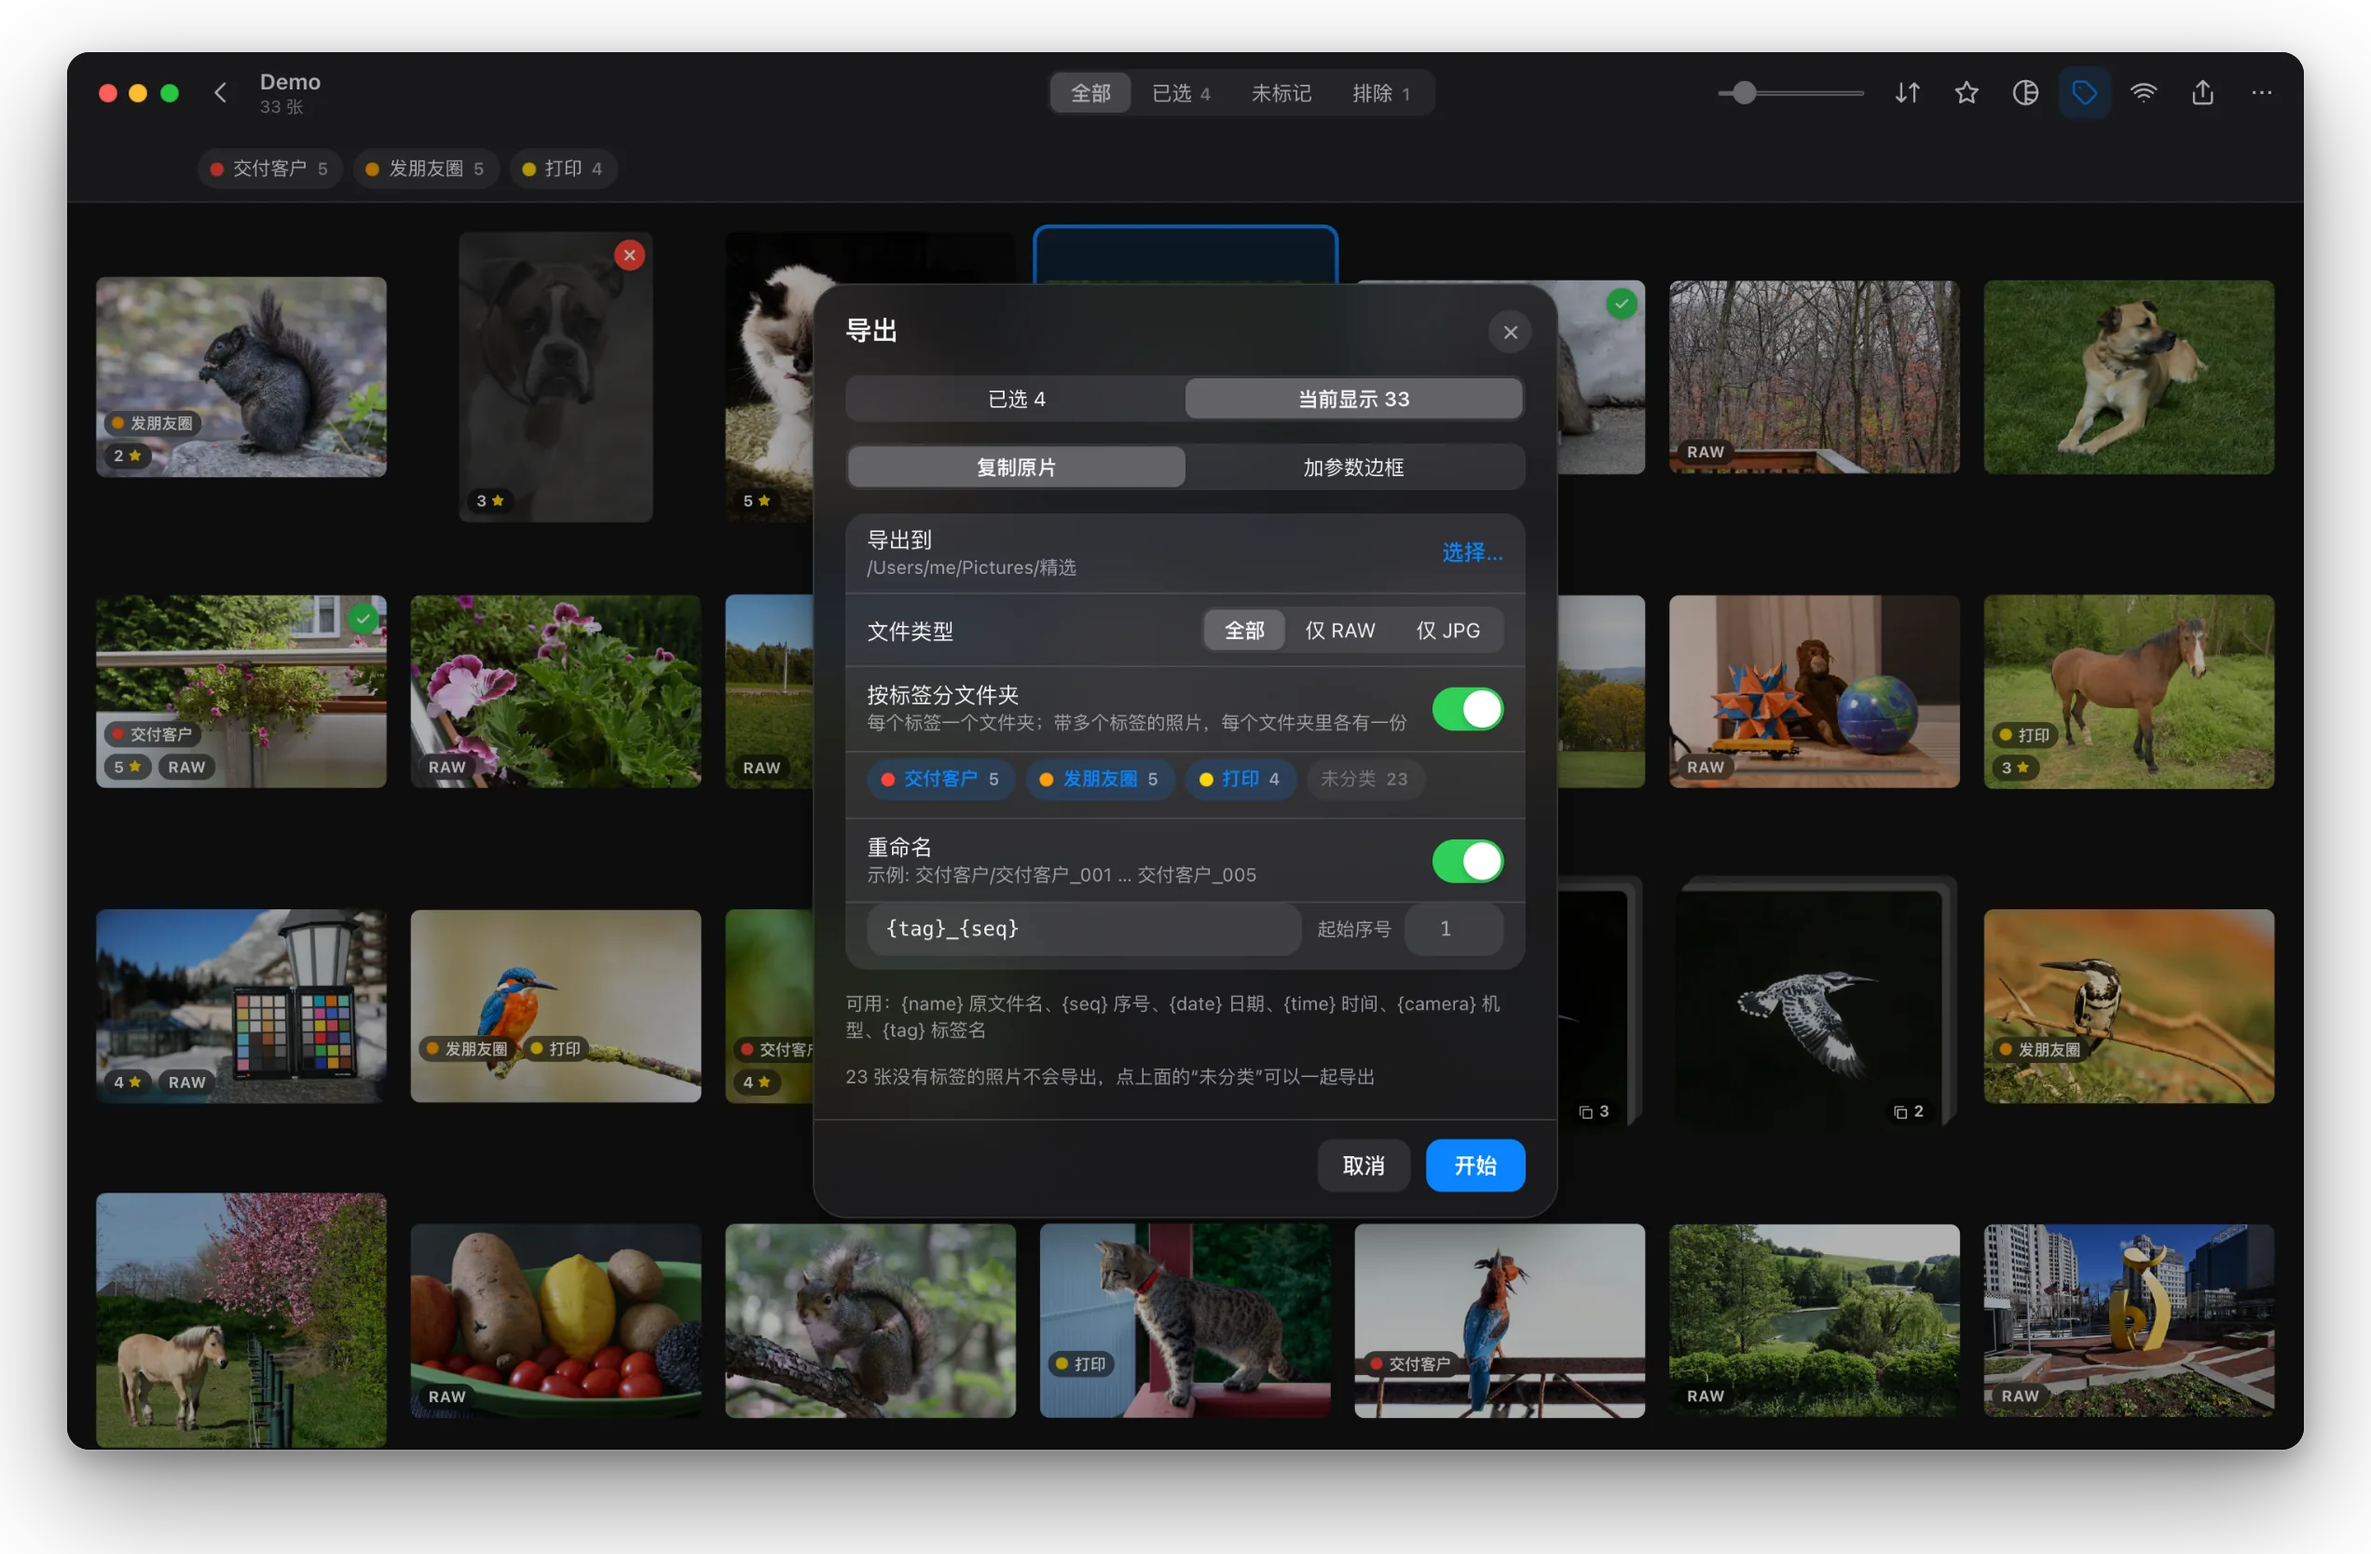
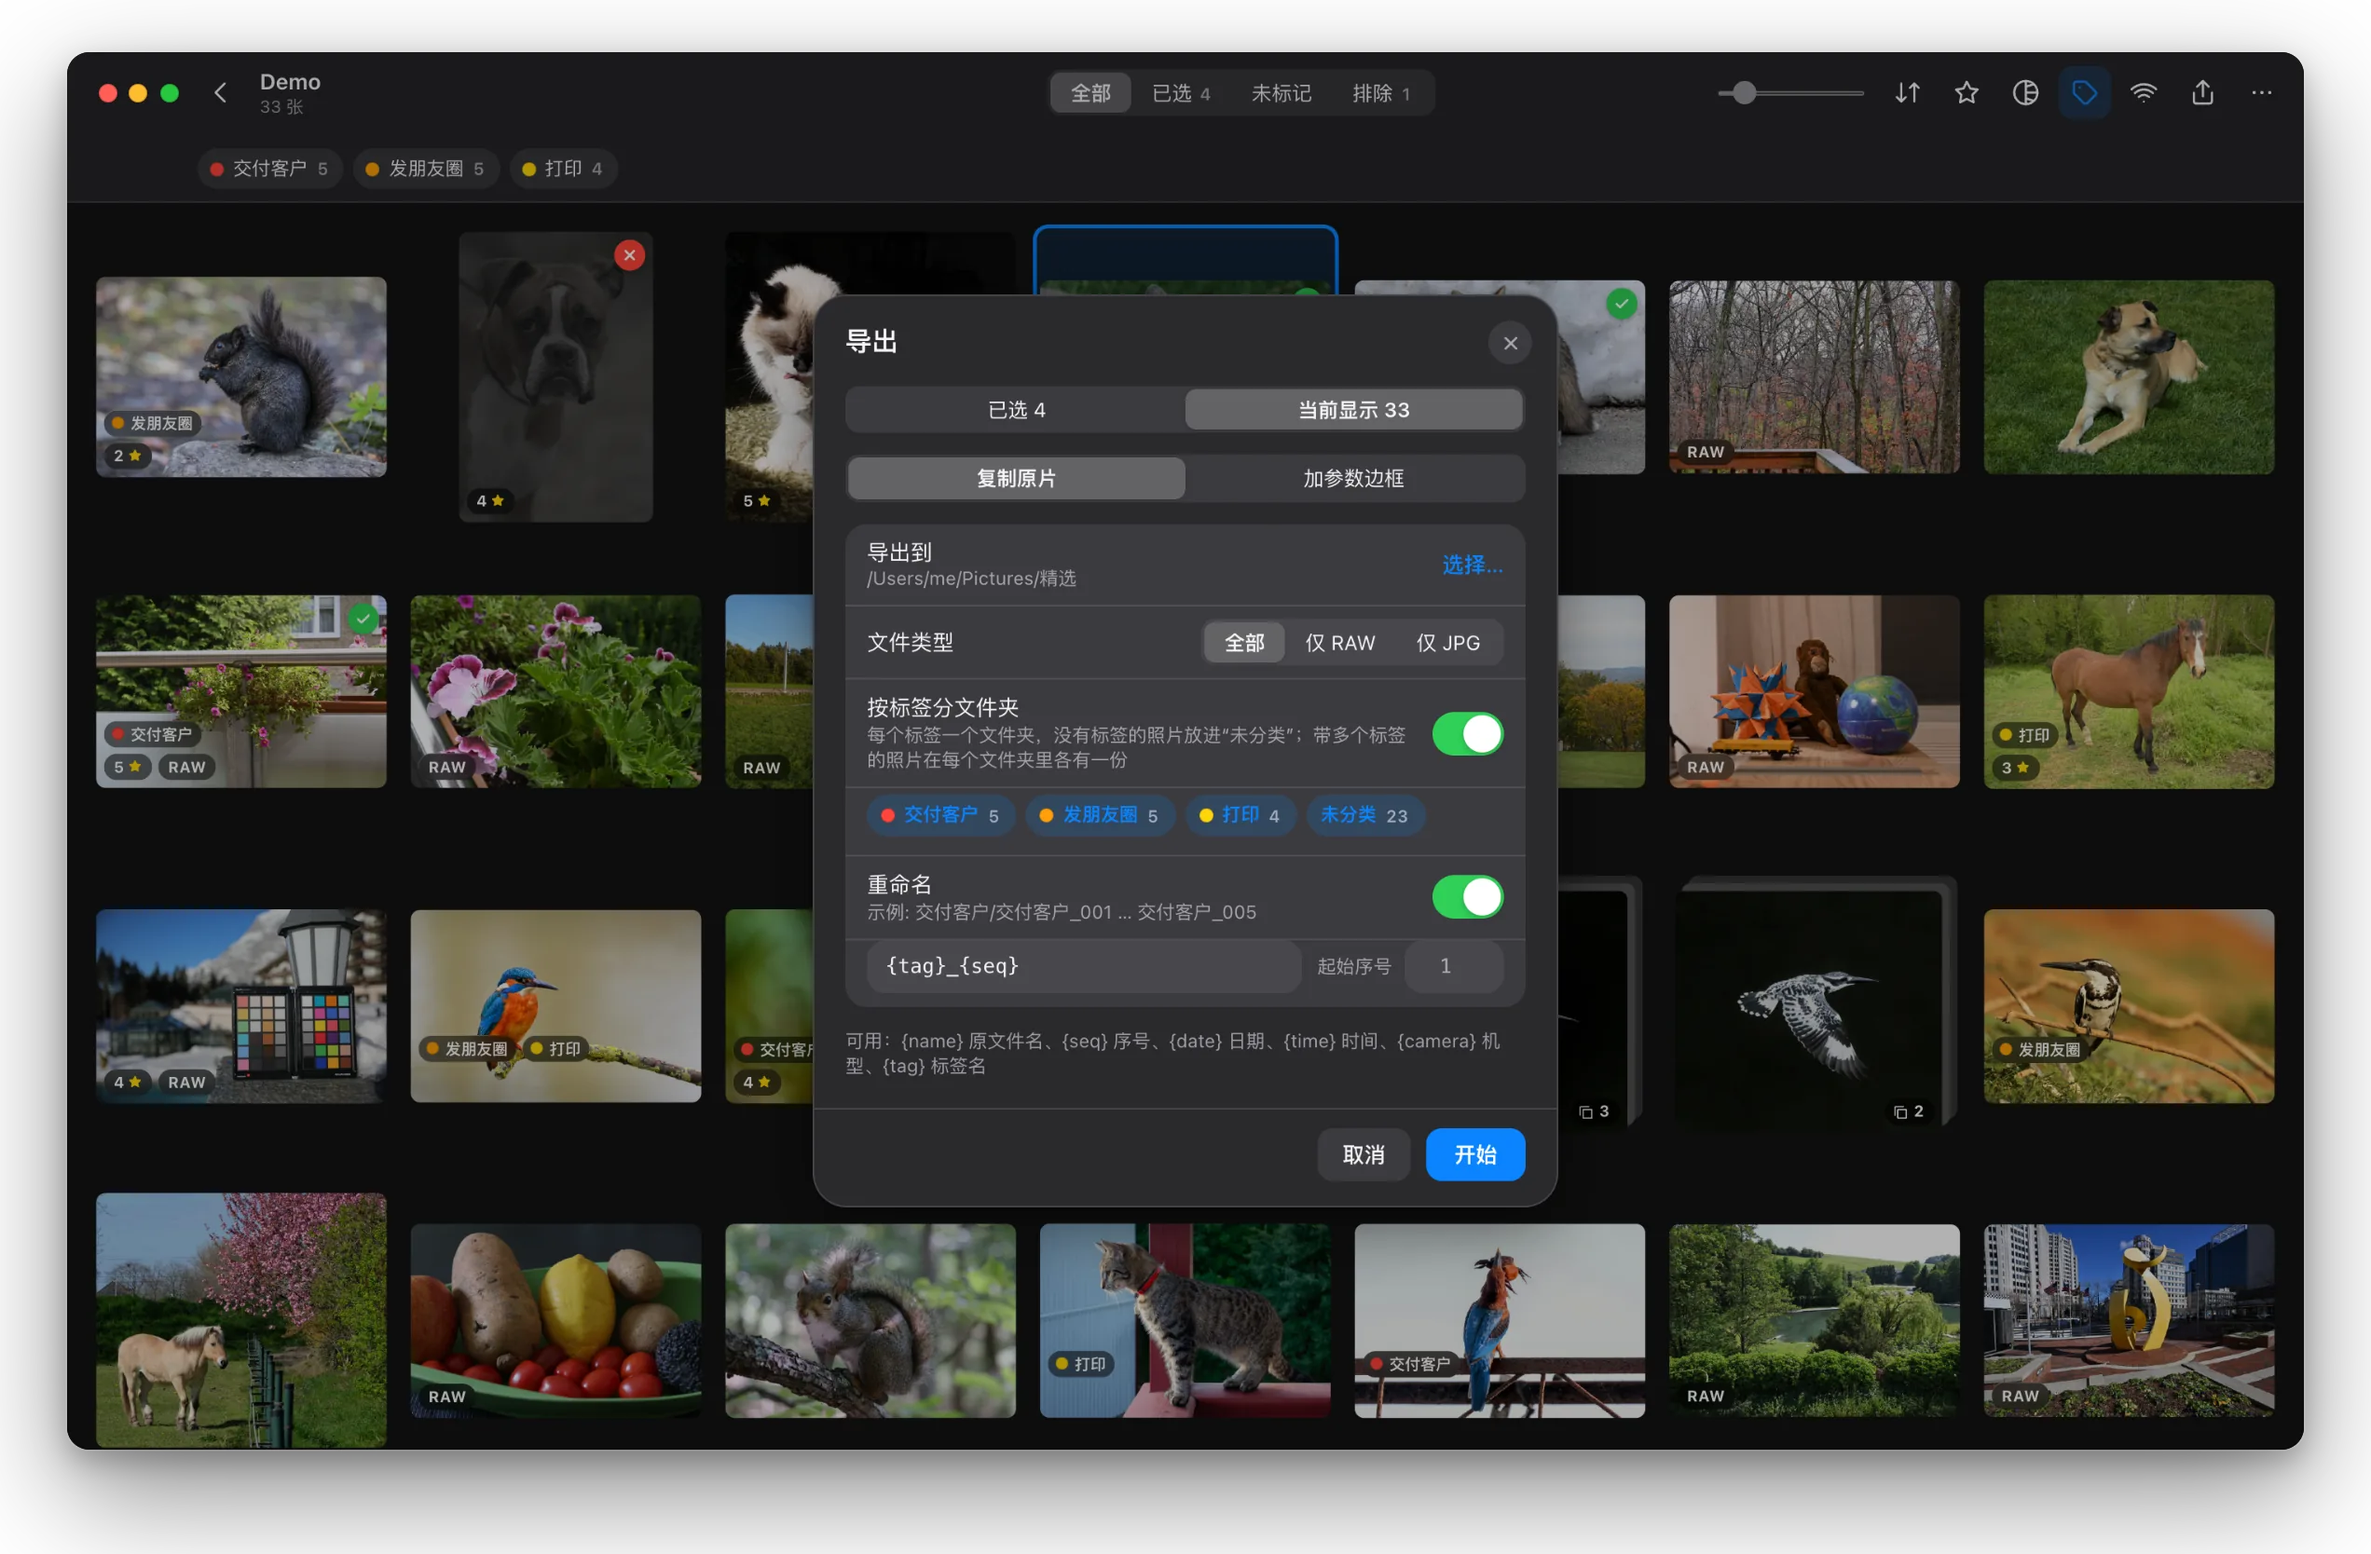
Give menus, sheets and other popups an opaque background
Menus, the tag menu, sheets, the compare picker, the floating info panel
on phones and the toast were frosted glass. Over a photo the picture
showed through the text, which got in the way more than it looked good.
They now have a solid surface (`.solid`, `--popup`). The bars that lie
on the photo (toolbar, dock, selection bar, burst strip) stay glass but
let less through.

The README pictures of the tag menu, the export sheet and the frame
sheet are retaken with the new surface and with "Untagged" on.

Checked in headless Chrome only; not looked at in WKWebView or WebView2.

Changed region(s): [[0.3416, 0.1559, 0.6521, 0.7794], [0.3416, 0.1559, 0.4037, 0.2182]]

diff --git a/src/styles.css b/src/styles.css
@@ -12,8 +12,9 @@
   --green: #34c759;
   --red: #ff3b30;
   --yellow: #ff9f0a;
-  --glass: rgba(255, 255, 255, 0.7);
+  --glass: rgba(255, 255, 255, 0.84);
   --glass-edge: rgba(255, 255, 255, 0.6);
+  --popup: #ffffff;
   --shadow: 0 10px 40px rgba(0, 0, 0, 0.14), 0 1px 3px rgba(0, 0, 0, 0.06);
   --bar: 52px;
   --safe-top: env(safe-area-inset-top, 0px);
@@ -38,8 +39,9 @@
     --green: #30d158;
     --red: #ff453a;
     --yellow: #ffd60a;
-    --glass: rgba(44, 44, 48, 0.64);
+    --glass: rgba(40, 40, 43, 0.82);
     --glass-edge: rgba(255, 255, 255, 0.1);
+    --popup: #2a2a2d;
     --shadow: 0 12px 44px rgba(0, 0, 0, 0.5), 0 1px 3px rgba(0, 0, 0, 0.3);
   }
 }
@@ -98,6 +100,13 @@ p {
   -webkit-backdrop-filter: blur(30px) saturate(180%);
   backdrop-filter: blur(30px) saturate(180%);
   border: 0.5px solid var(--glass-edge);
+}
+
+/* What is read or chosen from (menus, sheets, messages) is solid. Glass over a grid of photos makes
+ * text hard to read, and a blur inside a blurred bar is not drawn at all by Chromium (Windows). */
+.solid {
+  background: var(--popup);
+  border: 0.5px solid var(--hairline);
 }
 
 .link {
@@ -930,8 +939,9 @@ button.primary.large {
   --green: #30d158;
   --red: #ff453a;
   --yellow: #ffd60a;
-  --glass: rgba(38, 38, 42, 0.62);
+  --glass: rgba(34, 34, 37, 0.8);
   --glass-edge: rgba(255, 255, 255, 0.12);
+  --popup: #2a2a2d;
   --shadow: 0 12px 44px rgba(0, 0, 0, 0.5);
   color: var(--text);
 }
@@ -1689,7 +1699,6 @@ button.primary.large {
   display: flex;
   flex-direction: column;
   animation: rise 0.22s cubic-bezier(0.2, 0.9, 0.3, 1);
-  --glass: color-mix(in srgb, var(--surface) 82%, transparent);
 }
 
 .sheet.wide {

diff --git a/src/ui/controls.tsx b/src/ui/controls.tsx
@@ -113,7 +113,7 @@ export function Menu(props: { button: ReactNode; label: string; items: MenuItem[
         {props.button}
       </button>
       {open && (
-        <div className={`menu glass ${props.align === "left" ? "left" : "right"} ${props.up ? "up" : ""}`} role="menu">
+        <div className={`menu solid ${props.align === "left" ? "left" : "right"} ${props.up ? "up" : ""}`} role="menu">
           {props.items.map((item, i) =>
             item === "divider" ? (
               <hr key={i} />
@@ -151,7 +151,7 @@ export function Sheet(props: { title: string; onClose?: () => void; children: Re
   }, [props.onClose]);
   return (
     <div className="sheet-backdrop" onPointerDown={(e) => e.target === e.currentTarget && props.onClose?.()}>
-      <section className={`sheet glass ${props.wide ? "wide" : ""}`} role="dialog" aria-modal="true" aria-label={props.title}>
+      <section className={`sheet solid ${props.wide ? "wide" : ""}`} role="dialog" aria-modal="true" aria-label={props.title}>
         <header>
           <h2>{props.title}</h2>
           {props.onClose && (

diff --git a/src/components/Tags.tsx b/src/components/Tags.tsx
@@ -97,7 +97,7 @@ export function TagMenu(props: { targets: Item[]; label: string; up?: boolean; r
         <Icon name="tag" />
       </button>
       {open && (
-        <div ref={menu} className={`menu glass tag-menu ${props.up ? "up" : "right"}`} role="menu" aria-label={t.tags}>
+        <div ref={menu} className={`menu solid tag-menu ${props.up ? "up" : "right"}`} role="menu" aria-label={t.tags}>
           {!tags.length && <p className="tag-hint">{t.tagHint}</p>}
           {tags.map((tag, i) => {
             if (editing)

diff --git a/src/components/Compare.tsx b/src/components/Compare.tsx
@@ -89,7 +89,7 @@ export function ComparePicker({ items, current, marks, top, bottom, onChoose, on
   }, [onClose]);
 
   return (
-    <div className="compare-picker glass" ref={root} style={{ top: top + SLOT_BAR + 4, bottom: bottom + 8 }} role="listbox" aria-label={t.compareChoose}>
+    <div className="compare-picker solid" ref={root} style={{ top: top + SLOT_BAR + 4, bottom: bottom + 8 }} role="listbox" aria-label={t.compareChoose}>
       {items.map((it) => (
         <button
           key={it.id}

diff --git a/src/components/Viewer.tsx b/src/components/Viewer.tsx
@@ -101,7 +101,7 @@ function InfoPanel({ item, meta, docked, crop, tags, histogram, onSaveLook }: In
     ],
   ];
   return (
-    <aside className={docked ? "info-side" : "info-panel glass"}>
+    <aside className={docked ? "info-side" : "info-panel solid"}>
       <Histogram request={histogram} crop={crop} />
       {rows
         .filter(([, v]) => v)

diff --git a/src/App.tsx b/src/App.tsx
@@ -45,7 +45,7 @@ function Toast() {
     subfoldersShown: t.subfoldersShown(Number(detail) || 0),
   };
   return (
-    <div className="toast glass" role="status" key={toast.id}>
+    <div className="toast solid" role="status" key={toast.id}>
       {known[code] ?? toast.text}
     </div>
   );

diff --git a/CHANGELOG.md b/CHANGELOG.md
@@ -7,6 +7,7 @@
 ### 变更
 
 - 按标签导出时，没有标签的照片现在默认也导出，放进“未分类”文件夹；不想导出就在面板里点掉“未分类”，面板会写明有几张不会导出
+- 菜单、标签菜单、导出和设置面板、对比时的选片面板、手机上的信息面板和提示条改成不透明的底色，不再透出后面的照片；工具栏一类贴在照片上的长条仍然半透明，但更实一些
 
 ### 修复
 
